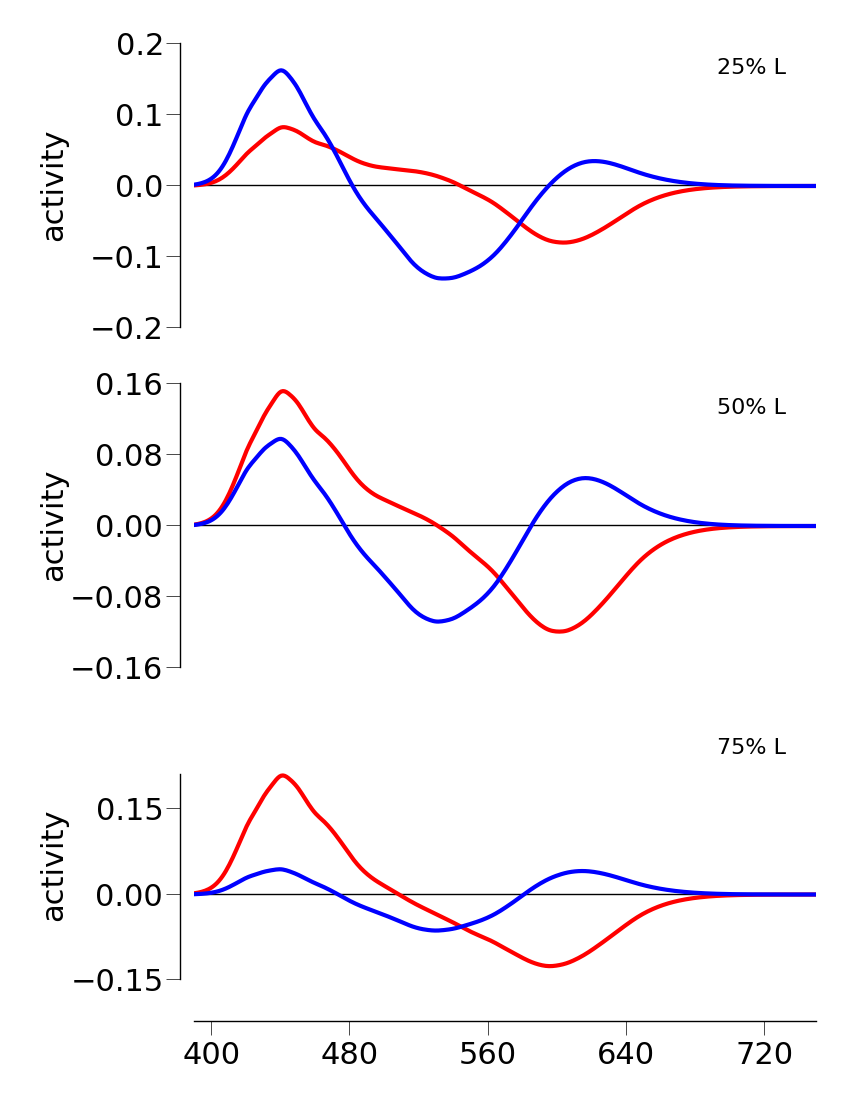
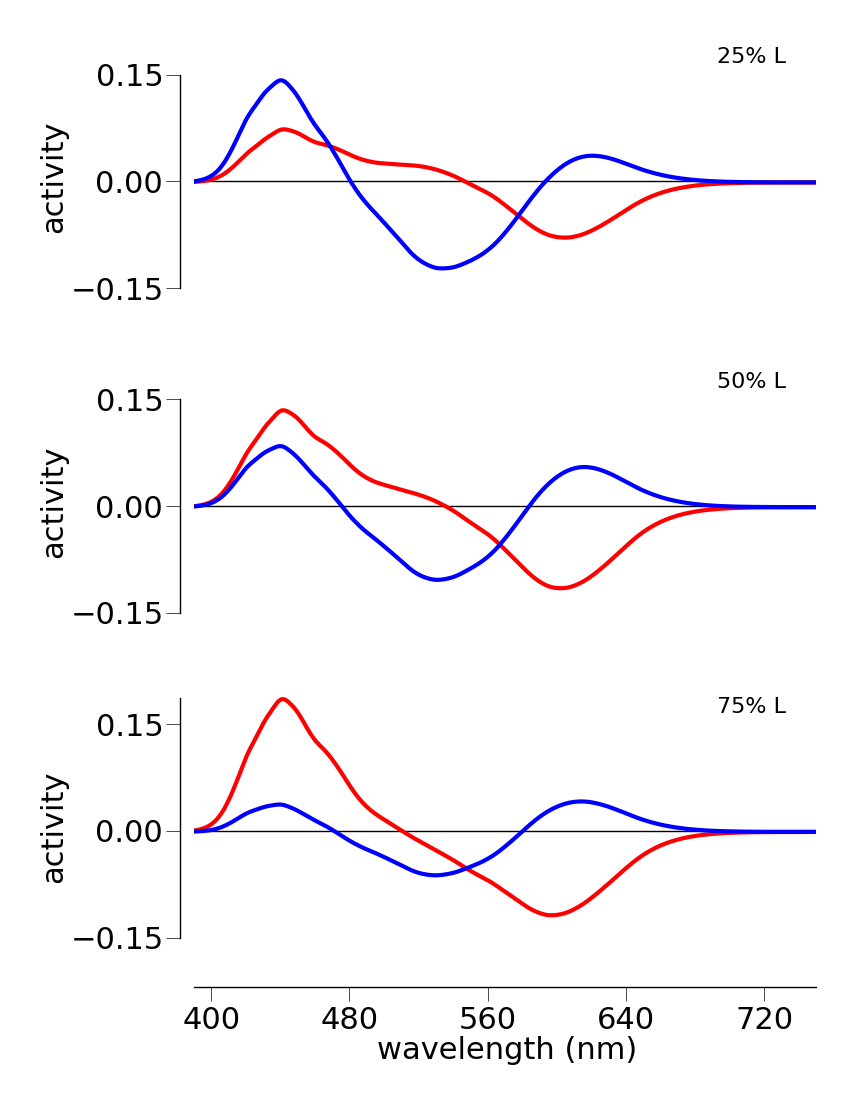
added some figures

diff --git a/writeups/test.tex b/writeups/test.tex
@@ -1,0 +1,90 @@
+\section{Stage 1}
+
+\begin{center}\rule{3in}{0.4pt}\end{center}
+
+\$\$LMS = \textbackslash{}frac\{LMS\}\{lens + macula\}\$\$
+
+\begin{figure}[htbp]
+\centering
+\includegraphics{../presentations/static/figures/colorModel/fundamentals.png}
+\caption{somethings}
+\end{figure}
+
+\section{Stage 2}
+
+\begin{center}\rule{3in}{0.4pt}\end{center}
+
+\$\$L\_\{channel\} =
+\textbackslash{}int\_\{\textbackslash{}lambda=390\}\^{}\{750\}
+\textbackslash{}Big(w(q S\_\{\textbackslash{}lambda\} + (1-l)
+M\_\{\textbackslash{}lambda\} + l L\_\{\textbackslash{}lambda\}) -
+L\_\{\textbackslash{}lambda\}\textbackslash{}Big)
+d\textbackslash{}lambda = 0\$\$
+
+\$\$M\_\{channel\} =
+\textbackslash{}int\_\{\textbackslash{}lambda=390\}\^{}\{750\}
+\textbackslash{}Big(w(q S\_\{\textbackslash{}lambda\} + (1-l)
+M\_\{\textbackslash{}lambda\} + l L\_\{\textbackslash{}lambda\}) -
+M\_\{\textbackslash{}lambda\}\textbackslash{}Big)
+d\textbackslash{}lambda = 0\$\$
+
+\subsection{25\% L}
+
+\begin{figure}[htbp]
+\centering
+\includegraphics{../presentations/static/figures/colorModel/familyLMS_25L.png}
+\caption{somethings}
+\end{figure}
+
+\subsection{75\% L}
+
+\begin{figure}[htbp]
+\centering
+\includegraphics{../presentations/static/figures/colorModel/familyLMS_75L.png}
+\caption{somethings}
+\end{figure}
+
+\section{Stage 3}
+
+\begin{center}\rule{3in}{0.4pt}\end{center}
+
+\$\$RG= \textbackslash{}sum\_\{m=0\}\^{}\{100\}
+\textbackslash{}sum\_\{l=0\}\^{}\{100\} L\_\{channel\_\{l,m\}\} *
+P(S\textbar{}l)\$\$
+
+\$\$BY = \textbackslash{}sum\_\{m=0\}\^{}\{100\}
+\textbackslash{}sum\_\{l=0\}\^{}\{100\} M\_\{channel\_\{l,m\}\} *
+P(S\textbar{}l)\$\$
+
+\$\$P(S\textbar{}l) = \textbackslash{}binom\{n\}\{L\} P\_\{l\}\^{}\{L\}
+(1 - P\_\{l\})\^{}\{n - L\},\$\$
+
+where \$n = L + M\$.
+
+\begin{figure}[htbp]
+\centering
+\includegraphics{../presentations/static/figures/colorModel/PercentL.png}
+\caption{somethings}
+\end{figure}
+
+\begin{figure}[htbp]
+\centering
+\includegraphics{../presentations/static/figures/colorModel/uniqueHues.png}
+\caption{somethings}
+\end{figure}
+
+\section{Unique hues, LM ratio comparison}
+
+\begin{center}\rule{3in}{0.4pt}\end{center}
+
+\begin{figure}[htbp]
+\centering
+\includegraphics{../presentations/static/figures/colorModel/uniqueHues_LMcomparison.png}
+\caption{somethings}
+\end{figure}
+
+\begin{figure}[htbp]
+\centering
+\includegraphics{../presentations/static/figures/colorModel/Volbrecht1997.gif}
+\caption{somethings}
+\end{figure}

diff --git a/writeups/colormodel.md b/writeups/colormodel.md
@@ -1,37 +1,87 @@
 #Stage 1
 ***
 
-$$\frac{LMS}{lens + macula}$$
+$$LMS = \frac{LMS}{lens + macula}$$
 
-![text](./presentations/static/figures/colorModel/fundamentals.png)
+<figure>
+  <img src="../presentations/static/figures/colorModel/fundamentals.png" alt="somethings"
+  width="400" height="300" style="margin: 0 auto;">
+</figure>
 
 #Stage 2
 ***
 
-$$L_{channel} = \int\_{i=390}^{750} w(q S\_{i} + (1-l) M\_{i} + l L\_{i}) - L\_{i} = 0$$
+$$L_{channel} = \int\_{\lambda=390}^{750} \Big(w(q S\_{\lambda} + (1-l) M\_{\lambda} + l L\_{\lambda}) - L\_{\lambda}\Big) d\lambda = 0$$
 
-$$M_{channel} = \int\_{i=390}^{750} w(q S\_{i} + (1-l) M\_{i} + l L\_{i}) - M\_{i} = 0$$
+$$M_{channel} = \int\_{\lambda=390}^{750} \Big(w(q S\_{\lambda} + (1-l) M\_{\lambda} + l L\_{\lambda}) - M\_{\lambda}\Big) d\lambda = 0$$
 
 ## 25% L
-![text](./presentations/static/figures/colorModel/familyLMS_25L.png)
+
+<figure>
+  <img src="../presentations/static/figures/colorModel/familyLMS_25L.png" alt="somethings"
+  width="425" height="400" style="margin: 0 auto;">
+</figure>
 
 ## 75% L
-![text](./presentations/static/figures/colorModel/familyLMS_75L.png)
+
+<figure>
+  <img src="../presentations/static/figures/colorModel/familyLMS_75L.png" alt="somethings"
+  width="425" height="400" style="margin: 0 auto;">
+</figure>
+
 
 #Stage 3
 ***
 
-$$Red:Green = \sum\_{m=0}^{100} \sum\_{l=0}^{100} L\_{channel\_{l,m}} * P(S|l)$$
+$$RG= \sum\_{m=0}^{100} \sum\_{l=0}^{100} L\_{channel\_{l,m}} * P(S|l)$$
 
-$$Blue:Yellow = \sum\_{m=0}^{100} \sum\_{l=0}^{100} M\_{channel\_{l,m}} * P(S|l)$$
+$$BY = \sum\_{m=0}^{100} \sum\_{l=0}^{100} M\_{channel\_{l,m}} * P(S|l)$$
 
-$$P(S|l) = \binom{n}{L} P\_{l}^{L} (1 - P\_{l})^{n - L},$$
+$$P(S|l) = \binom{n}{l} P\_{L}^{l} (1 - P\_{L})^{n - l},$$
 
-where $n = L + M$.
+where $n = l + m$.
+
+<figure>
+  <img src="../presentations/static/figures/colorModel/PercentL.png" alt="somethings"
+  width="425" height="550" style="margin: 0 auto;">
+</figure>
 
 
-![text](./presentations/static/figures/colorModel/PercentL.png)
-![text](./presentations/static/figures/colorModel/uniqueHues.png)
+
+<figure>
+  <img src="../presentations/static/figures/colorModel/uniqueHues.png" alt="somethings"
+  width="400" height="300" style="margin: 0 auto;">
+</figure>
+
+#Unique hues, LM ratio comparison
+***
+
+<figure>
+  <img src="../presentations/static/figures/colorModel/uniqueHues_LMcomparison_Volbrecht.png" alt="somethings"
+  width="425" height="550" style="margin: 0 auto;">
+</figure>
+
+
+<script type="text/javascript">
+
+	formatImages = function (percentage) {
+		console.log(document.images);
+		for( i=0; i < document.images.length; i++)
+		{ 
+			width = document.images[i].naturalWidth * percentage / 100.0;
+			height = document.images[i].naturalHeight  * percentage / 100.0;
+			
+			window.document.images[i].setAttribute("width",width);
+			window.document.images[i].setAttribute("height",height);
+
+		}
+		return window
+	};
+
+	console.log('here');
+	//formatImages(30);
+	console.log('here1');
+</script>
 
 <script type="text/javascript" src="http://cdn.mathjax.org/mathjax/latest/MathJax.js">
         MathJax.Hub.Config({
